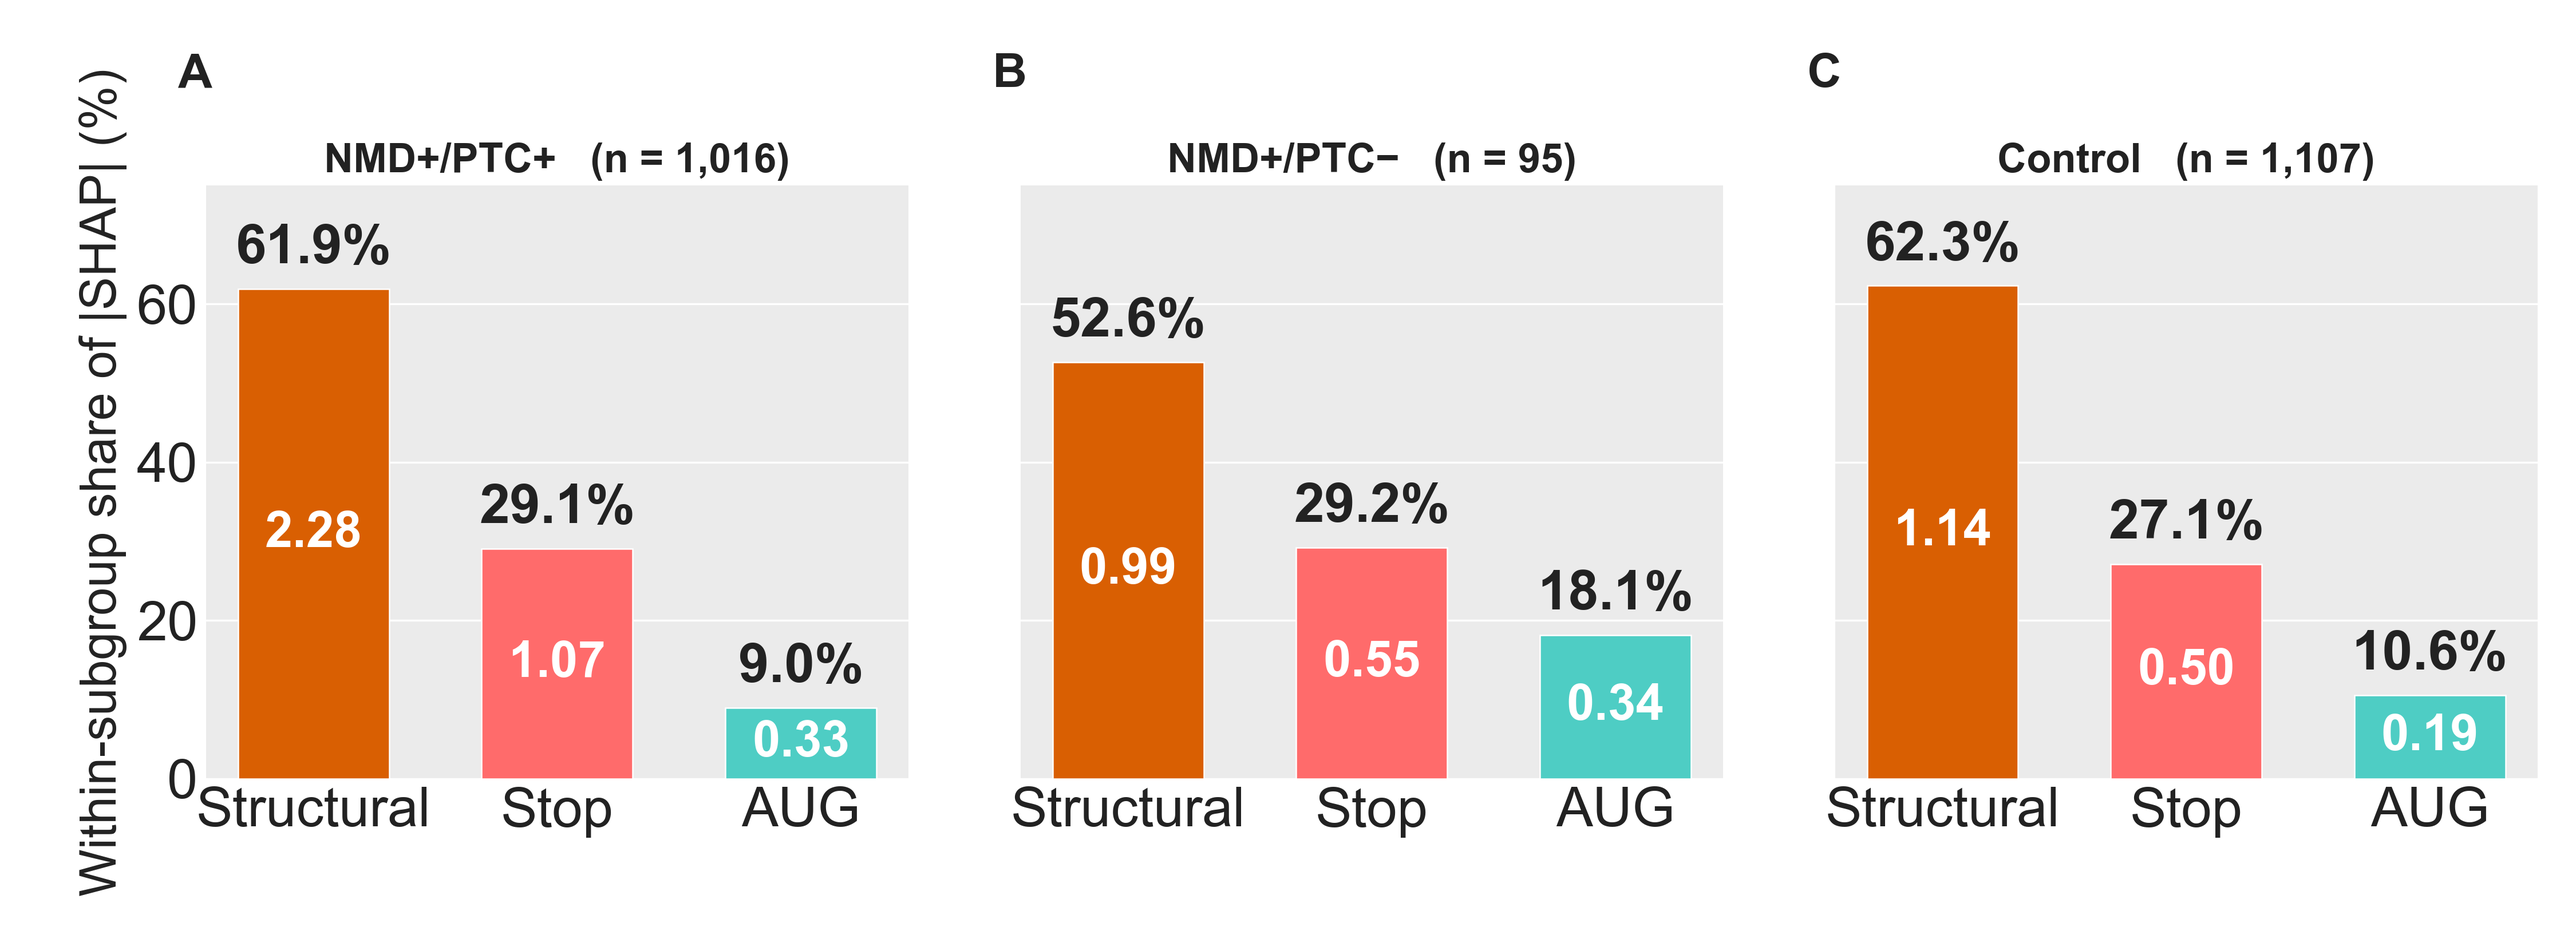
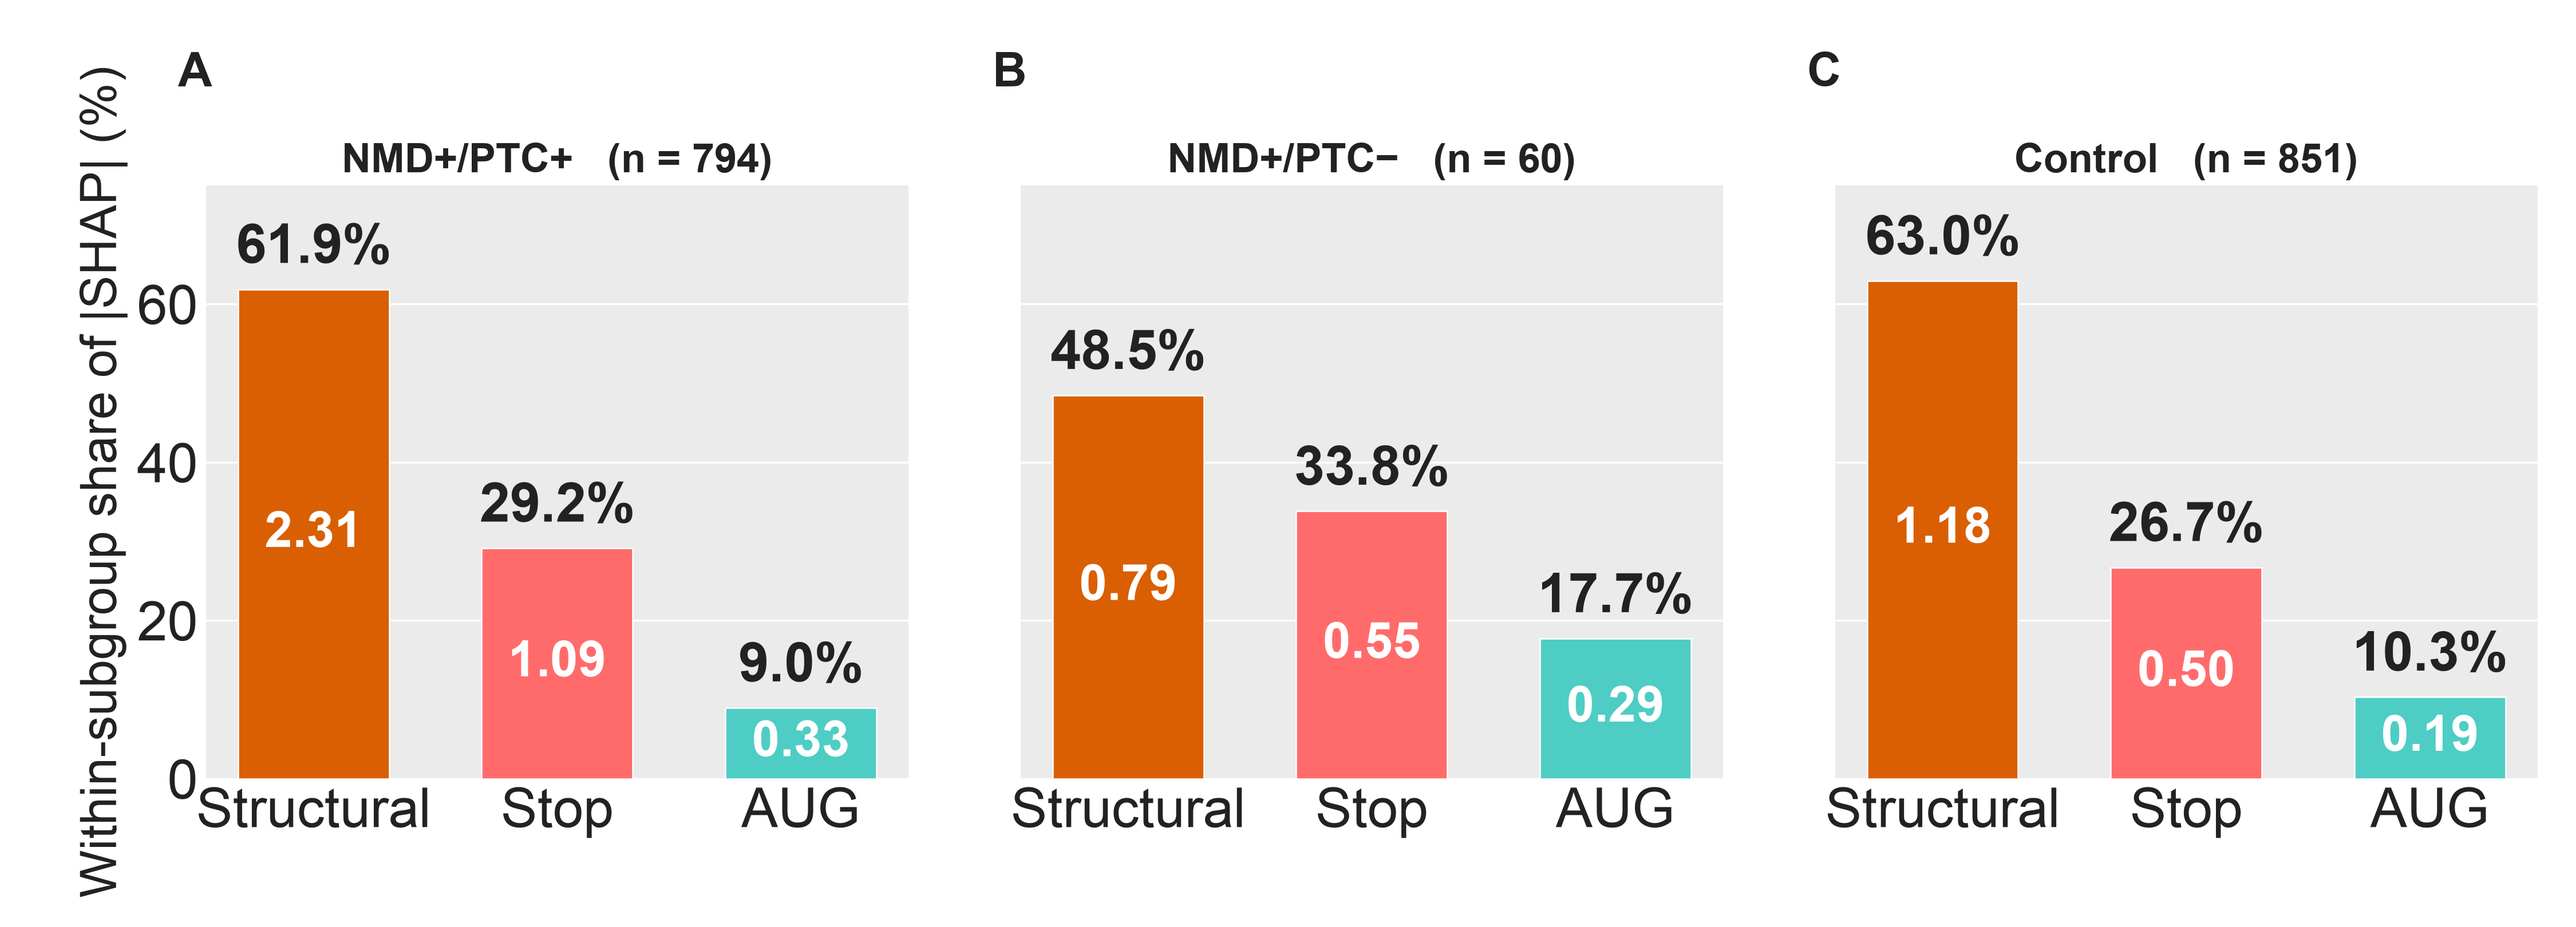
Update SF39 branch-SHAP-by-subclass for reference floor
No path split (reads local data_export output); regenerated on the floored
n=888 subset -> subclass n=794/60/851. Bar shares 61.9/29.2/9.0 (PTC+),
48.5/33.8/17.7 (PTC-), 63.0/26.7/10.3 (Control). Finding holds (AUG-branch
share ~2x higher in PTC-), but the PTC-:PTC+ ATG ratio is now 1.98x (was
2.21x) -> the SS5 'roughly three times' prose must soften to '~twice'.
Docstring + NUMBERS_DELTA updated; flagged for manuscript pass.

diff --git a/figures/SupplementalFigures/SF39_PTCSubclassBranchSHAP/figure_s_branch_shap_by_subclass.py b/figures/SupplementalFigures/SF39_PTCSubclassBranchSHAP/figure_s_branch_shap_by_subclass.py
@@ -1,6 +1,7 @@
 """
 Supplemental Figure — Branch-level KernelSHAP stratified by PTC subclass
-across the FULL n = 1,166 ref-AUG-traceable subset (not test-set-restricted).
+across the FULL n = 888 ref-AUG-traceable subset (not test-set-restricted;
+post 25% reference-share floor 2026-07-10).
 
 Style: matches Figure 5 Panel C exactly — branch order Structural / Stop /
 ATG, same colour palette, percent label above each bar, mean |SHAP|
@@ -14,22 +15,23 @@ Companion to the §5 manuscript sentence:
      window information is roughly three times more important in the
      NMD+/PTC- than in the NMD+/PTC+ isoforms (SFx)."
 
-KEY NUMBER (full cohort, no test-set restriction):
+KEY NUMBER (full cohort, no test-set restriction; post-floor):
   Mean within-isoform ATG-branch share:
-    NMD+/PTC+         (n=1,016) →  9.2%
-    NMD+/PTC- retained (n=  95) → 20.4%
-    Control           (n=1,107) → 11.3%
-  Ratio NMD+/PTC- vs NMD+/PTC+ ≈ 2.21×.
+    NMD+/PTC+          (n=794) →  9.1%
+    NMD+/PTC- retained (n= 60) → 18.0%
+    Control            (n=851) → 10.8%
+  Ratio NMD+/PTC- vs NMD+/PTC+ ≈ 1.99×.
 
 The Panel-C-style bar labels show share-of-subgroup-total (sum of
 subgroup mean |SHAP|), giving:
-    NMD+/PTC+   Structural 61.9% / Stop 29.1% / ATG  9.0%
-    NMD+/PTC-   Structural 52.6% / Stop 29.2% / ATG 18.1%
-    Control     Structural 62.3% / Stop 27.1% / ATG 10.6%
+    NMD+/PTC+   Structural 61.9% / Stop 29.2% / ATG  9.0%
+    NMD+/PTC-   Structural 48.5% / Stop 33.8% / ATG 17.7%
+    Control     Structural 63.0% / Stop 26.7% / ATG 10.3%
 
 Manuscript text reads "roughly three times more important" — the actual
-share-of-total ratio is 2.21× (full cohort) or 2.20× (test-set only).
-Find/replace pair to revise the manuscript prose is in README.md.
+post-floor ratio is ~2× (share-of-total 1.98×, within-isoform 1.99×; was
+2.21× pre-floor). The §5 prose overstates it; flag for the manuscript
+find/replace pass (see REFERENCE_FLOOR_NUMBERS_DELTA.md).
 
 Data: data/branch_shap_by_subclass_n1166.tsv (built by data_export.R).
 """

diff --git a/results/isoform_transitions/Version_6.0/isopair_wrapper/REFERENCE_FLOOR_NUMBERS_DELTA.md b/results/isoform_transitions/Version_6.0/isopair_wrapper/REFERENCE_FLOOR_NUMBERS_DELTA.md
@@ -23,7 +23,10 @@ pre → post per this table. "TBD" = to be read from the rendered Rmd / remainin
 | n=1,166 PTC rate | 90.1% (1050/1166) | **92.1%** (818/888) | figure4 export |
 | occult-PTC scope | 492 | **380** | SF33 export |
 | Kozak broad paired-Wilcoxon p | 1.21e-38 | **2.92e-39** | SF33 export |
-| Kozak occult paired-Wilcoxon p | 2.6e-38 | **5.17e-38** | SF33 export |
+| Kozak occult paired-Wilcoxon p | 2.6e-38 | **5.17e-38** | SF34 export |
+| SF39 branch-SHAP subclass n (PTC+/PTC−/Ctrl) | 1,016/95/1,107 | **794/60/851** | SF39 |
+| SF39 ATG-branch share PTC+ / PTC− | 9.0% / 18.1% | **9.0% / 17.7%** | SF39 |
+| **§5 ATG-branch ratio PTC−:PTC+** ("roughly 3×") | 2.21× | **1.98×** (~2×) → soften prose to "~twice" | SF39 |
 | Reference-share median | 31% | **TBD (≥25% by construction; expect ~50%+)** | Rmd §1 render |
 | Transcript-length medians (ref/NMD/ctrl) | 2893/3049/2762 | TBD | Rmd render |
 | %ENST reference / %novel NMD | 69.7 / 76.6 | TBD | Rmd render |
